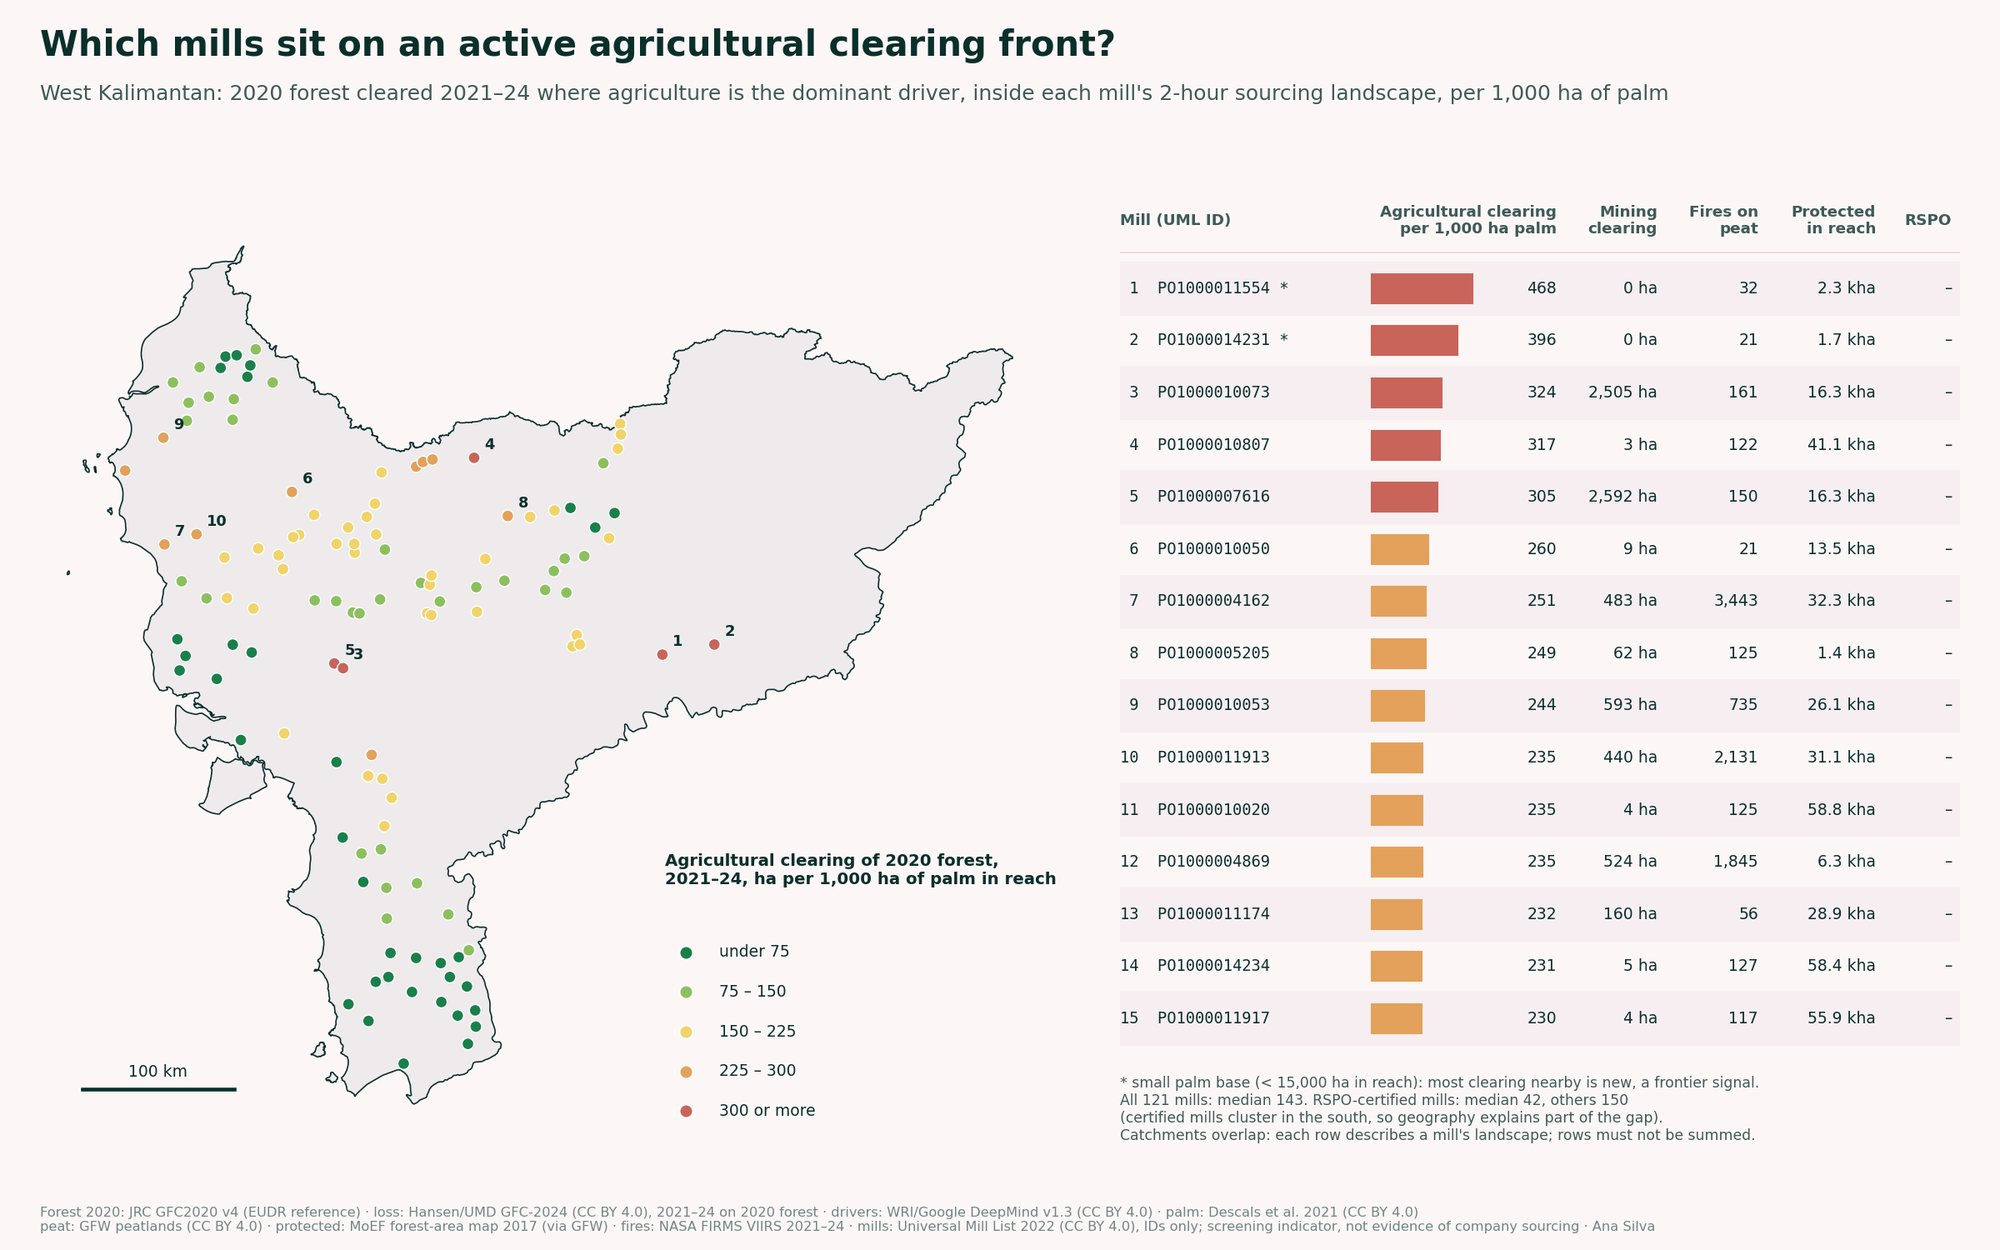
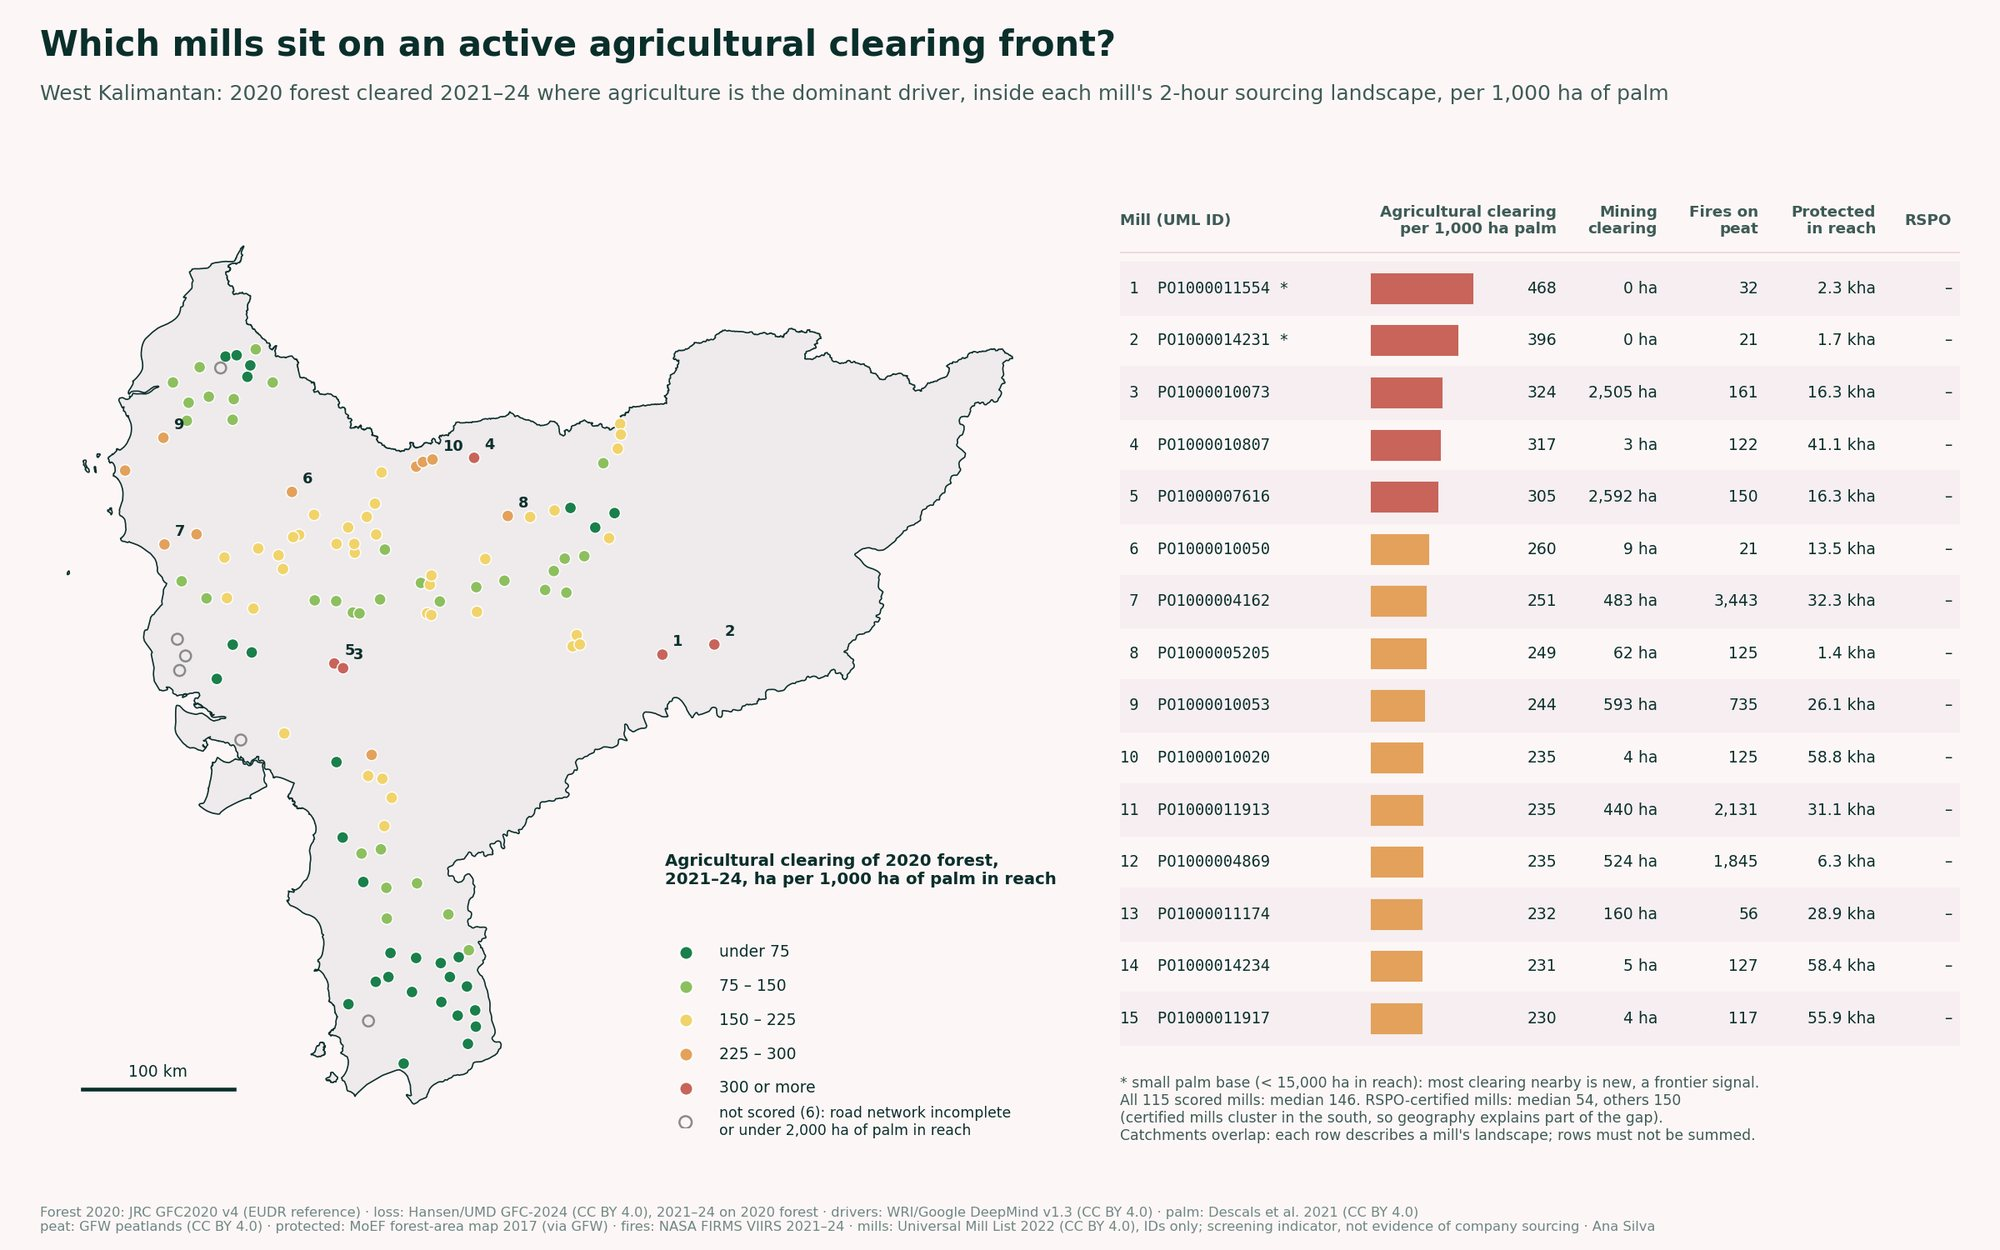
Update site

Changed region(s): [[0.341, 0.78, 0.496, 0.9048], [0.589, 0.8736, 0.837, 0.9048]]

diff --git a/palm-oil.html b/palm-oil.html
@@ -1,0 +1,181 @@
+<!doctype html>
+<html lang="en">
+<head>
+<meta charset="utf-8">
+<meta name="viewport" content="width=device-width, initial-scale=1, viewport-fit=cover">
+<title>Palm Oil Mills · Ana Silva</title>
+<meta name="description" content="Where does a palm oil mill's fruit come from, and is forest being cleared there? A screening of 361 mills in West Kalimantan and Riau, Indonesia, built on open data.">
+<meta property="og:title" content="Palm oil mills: where does the fruit come from?">
+<meta property="og:description" content="A screening of 361 mills in West Kalimantan and Riau, built on open data.">
+<meta property="og:image" content="https://kirjawa.github.io/assets/palm_spotcheck.jpg">
+<link rel="preconnect" href="https://fonts.googleapis.com">
+<link rel="preconnect" href="https://fonts.gstatic.com" crossorigin>
+<link rel="stylesheet" href="https://fonts.googleapis.com/css2?family=Instrument+Serif:ital@0;1&family=Figtree:wght@400;500;600&family=IBM+Plex+Mono:wght@400;500&display=swap">
+<style>
+:root{--blush:#F8D3DA;--rose:#DB8FAB;--rose-ink:#A94C73;--teal:#15A19A;--forest:#0B6152;--pine:#073B35;
+--ground:#FDF6F7;--surface:#FFFFFF;--wash:#FBE9ED;--ink:#0A2F2B;--ink-2:#3E5B56;--muted:#6F8783;--hair:#EFD9DF;
+--serif:"Instrument Serif",Georgia,"Times New Roman",serif;--sans:"Figtree",system-ui,-apple-system,"Segoe UI",sans-serif;
+--mono:"IBM Plex Mono",ui-monospace,Menlo,Consolas,monospace}
+@media (prefers-color-scheme:dark){:root:not([data-theme="light"]){color-scheme:dark;--ground:#062724;--surface:#0A3531;--wash:#0D3D38;
+--ink:#FBEAEE;--ink-2:#C9DEDA;--muted:#8FB0AA;--hair:#17504A;--rose-ink:#F0B3C9}}
+*{box-sizing:border-box}
+body{margin:0;background:var(--ground);color:var(--ink);font:400 17px/1.65 var(--sans);-webkit-font-smoothing:antialiased;padding-inline:clamp(16px,4vw,40px)}
+.wrap{max-width:820px;margin:0 auto;padding-block:28px 72px}
+.wide{max-width:1180px;margin:0 auto}
+a{color:var(--rose-ink);text-underline-offset:3px}
+a:focus-visible,button:focus-visible{outline:2px solid var(--teal);outline-offset:3px;border-radius:6px}
+.back{font:500 13px var(--mono);text-decoration:none}
+.eyebrow{display:block;margin-top:34px;font:500 12px/1 var(--mono);letter-spacing:.14em;text-transform:uppercase;color:var(--rose-ink)}
+h1{font:400 clamp(38px,5.5vw,64px)/1.02 var(--serif);margin:14px 0 18px;text-wrap:balance}
+h2{font:400 clamp(28px,3.4vw,38px)/1.1 var(--serif);margin:52px 0 12px;text-wrap:balance}
+h3{font:600 17px/1.3 var(--sans);margin:26px 0 6px}
+p,li{color:var(--ink-2)}
+.lede{font-size:19.5px;color:var(--ink)}
+ol,ul{padding-left:22px}
+li{margin:6px 0}
+figure{margin:28px 0}
+figure img{width:100%;height:auto;display:block;border-radius:12px;border:1px solid var(--hair);background:#FDF6F7;cursor:zoom-in}
+figcaption{font:400 13.5px/1.5 var(--sans);color:var(--muted);margin-top:8px}
+.pair{display:grid;grid-template-columns:1fr 1fr;gap:18px}
+.pair figure{margin:0}
+table{width:100%;border-collapse:collapse;font-size:15.5px;margin:18px 0}
+th,td{text-align:left;padding:9px 10px;border-bottom:1px solid var(--hair);vertical-align:top}
+th{font:500 12px var(--mono);letter-spacing:.06em;text-transform:uppercase;color:var(--muted)}
+th:not(:first-child){text-align:right}
+.src th,.src td{text-align:left}
+td.n{text-align:right;font-variant-numeric:tabular-nums;white-space:nowrap}
+.tbl{overflow-x:auto}
+.note{background:var(--wash);border-radius:12px;padding:16px 20px;margin:24px 0}
+.note p{margin:0}
+.src td:first-child{white-space:nowrap;color:var(--ink)}
+footer{border-top:1px solid var(--hair);margin-top:56px;padding-top:18px;font:400 13px var(--mono);color:var(--muted)}
+@media (max-width:760px){.pair{grid-template-columns:1fr}}
+/* lightbox */
+dialog.lb{border:0;padding:0;margin:0;width:100vw;height:100vh;max-width:none;max-height:none;background:rgba(7,39,36,.94);color:#fff}
+.lb-stage{position:absolute;inset:52px 56px 56px;overflow:auto;display:grid;place-items:center}
+.lb-stage img{max-width:100%;max-height:100%;object-fit:contain;cursor:zoom-in;border-radius:6px;background:#FDF6F7}
+.lb.full .lb-stage{place-items:start}.lb.full .lb-stage img{max-width:none;max-height:none;cursor:zoom-out}
+.lb-cap{position:absolute;left:56px;right:56px;bottom:16px;text-align:center;font-size:14px;color:#E8F1EF}
+.lb button{position:absolute;top:10px;right:14px;background:rgba(253,246,247,.1);color:#fff;border:1px solid rgba(248,211,218,.3);border-radius:99px;width:44px;height:44px;font-size:20px;cursor:pointer}
+</style>
+</head>
+<body>
+<div class="wrap">
+  <a class="back" href="./">← Ana Silva · portfolio</a>
+  <span class="eyebrow">Study · West Kalimantan and Riau, Indonesia</span>
+  <h1>Palm oil mills: where does the fruit come from?</h1>
+  <p class="lede">Under the EU Deforestation Regulation, anyone selling palm oil into Europe has to show it didn't come from land cleared after 2020. The oil is traceable to a mill, but mills buy fresh fruit from many farms around them. So I asked two questions: which land can realistically supply each mill, and is forest being cleared there?</p>
+  <p>I screened 361 mills in two very different provinces, West Kalimantan on Borneo and Riau on Sumatra, using only open data. This page explains how, what I found, and where the method stops.</p>
+</div>
+
+<div class="wide">
+  <figure><img src="assets/palm_spotcheck.jpg" alt="Sentinel-2 before and after images of two sites in West Kalimantan: forest turned into a new oil palm plantation, and forest turned into open-pit mining" data-caption="Not all clearing near palm oil mills is palm"><figcaption>Two places near mills in West Kalimantan, seen by Sentinel-2 in 2020 and 2024. Both lost forest. Only the top one became oil palm.</figcaption></figure>
+</div>
+
+<div class="wrap">
+  <h2>How I did it</h2>
+  <ol>
+    <li><b>Mills.</b> I took every mill in the Universal Mill List and selected them by location inside each province, not by the province written in the list. That caught eight mills with the wrong province label.</li>
+    <li><b>Where the palm is.</b> A 10 m map of mature oil palm from 2021, split into industrial estates and smallholder farms.</li>
+    <li><b>How far fruit can travel.</b> Fruit has to be milled within about a day of harvest, so the driving part is short. I built a road network from OpenStreetMap with typical truck speeds and measured the drive from every palm area to every mill. Estate roads are often missing from OpenStreetMap, so I allowed up to 3 km off the mapped roads.</li>
+    <li><b>Each mill's sourcing landscape.</b> All palm a truck can reach within 2 hours of the mill. Most palm can reach several mills, so these areas overlap and I never add them up.</li>
+    <li><b>Forest cleared since the cutoff.</b> Forest at the end of 2020 from the EU's own reference map (JRC), and tree cover lost in 2021 to 2024 on that forest.</li>
+    <li><b>Why the forest was cleared.</b> Loss near palm isn't always palm. I used a global map of the dominant cause of forest loss to keep only agricultural clearing in the score, and to show mining and other causes separately.</li>
+    <li><b>One number per mill.</b> Agricultural clearing of 2020 forest in the mill's landscape, per 1,000 ha of palm it can reach. Dividing by palm keeps big central mills from ranking high just because their area is large.</li>
+  </ol>
+
+  <h2>What I found</h2>
+  <div class="tbl"><table>
+    <tr><th></th><th>West Kalimantan</th><th>Riau</th></tr>
+    <tr><td>Mills screened</td><td class="n">121</td><td class="n">240</td></tr>
+    <tr><td>Mature oil palm (2021)</td><td class="n">1.42 Mha</td><td class="n">2.85 Mha</td></tr>
+    <tr><td>of which smallholder</td><td class="n">0.29 Mha</td><td class="n">1.05 Mha</td></tr>
+    <tr><td>Palm within 1 hour of a mill</td><td class="n">89%</td><td class="n">91%</td></tr>
+    <tr><td>Mills within 2 hours of the palm (median)</td><td class="n">7</td><td class="n">31</td></tr>
+    <tr><td>Palm with only one mill in reach</td><td class="n">5%</td><td class="n">2%</td></tr>
+    <tr><td>Forest at the end of 2020</td><td class="n">9.2 Mha</td><td class="n">3.1 Mha</td></tr>
+    <tr><td>Tree cover lost on that forest, 2021 to 2024</td><td class="n">362 kha</td><td class="n">131 kha</td></tr>
+    <tr><td>Clearing per 1,000 ha of palm (median mill)</td><td class="n">146 ha</td><td class="n">16 ha</td></tr>
+  </table></div>
+
+  <h3>Almost all palm is close to a mill, and usually to many</h3>
+  <p>In both provinces about nine in ten hectares of palm are within an hour of a mill. What differs is competition. In West Kalimantan a typical plot can reach 7 mills within 2 hours. In Riau it's 31. That matters for traceability: when fruit can go to that many mills, knowing a mill's location tells you very little about which farms supplied it. Only plot-level data from the mill can close that gap.</p>
+</div>
+<div class="wide pair">
+  <figure><img src="assets/palm_competition.jpg" alt="Map of West Kalimantan palm coloured by the number of mills within 2 hours" data-caption="How many mills compete for the same fruit? West Kalimantan"><figcaption>West Kalimantan: median 7 mills within 2 hours of the palm.</figcaption></figure>
+  <figure><img src="assets/palm_competition_riau.jpg" alt="Map of Riau palm coloured by the number of mills within 2 hours, almost all 11 or more" data-caption="How many mills compete for the same fruit? Riau"><figcaption>Riau: median 31, and 86% of palm has 11 or more mills in reach.</figcaption></figure>
+</div>
+
+<div class="wrap">
+  <h3>The clearing front is in West Kalimantan</h3>
+  <p>Using the same colour scale for both provinces, West Kalimantan has a clear agricultural clearing front through its west-central belt and along its eastern frontier. Riau is almost all green. Its remaining forest is small and mostly on peat or in protected areas, which fits a frontier that was largely cleared before 2020.</p>
+  <p>In West Kalimantan, mills with RSPO certification have lower scores (median 54 against 150 for the others), but certified mills also cluster in the south, where clearing is low anyway. In Riau there is no difference.</p>
+</div>
+<div class="wide pair">
+  <figure><img src="assets/palm_mill_risk.jpg" alt="West Kalimantan mills coloured by agricultural clearing in their sourcing landscape, with a ranked table" data-caption="Which mills sit on an active agricultural clearing front? West Kalimantan"><figcaption>West Kalimantan, mills shown by their public ID.</figcaption></figure>
+  <figure><img src="assets/palm_mill_risk_riau.jpg" alt="Riau mills coloured by agricultural clearing in their sourcing landscape, almost all low" data-caption="Which mills sit on an active agricultural clearing front? Riau"><figcaption>Riau, same scale.</figcaption></figure>
+</div>
+
+<div class="wrap">
+  <h2>How I checked it</h2>
+  <ul>
+    <li><b>With my own eyes.</b> I looked at Sentinel-2 images before and after for four of the places with the most clearing. All four were real clearing, but only one was a new palm plantation. One was mining, which is why I added the cause of loss.</li>
+    <li><b>The cause map, against those images.</b> The global drivers map called the plantation agriculture and the pits mining, matching what the images show.</li>
+    <li><b>The off-road allowance.</b> Ranking the West Kalimantan mills with 1 km instead of 3 km off the mapped roads gives almost the same order (rank correlation 0.99).</li>
+    <li><b>Totals against known figures.</b> The palm area for Riau (2.85 Mha) and the protected forest in West Kalimantan (3.7 Mha) are close to official numbers.</li>
+  </ul>
+</div>
+<div class="wide">
+  <figure style="max-width:760px;margin-inline:auto"><img src="assets/palm_spotcheck4.jpg" alt="Sentinel-2 before and after for four sites near West Kalimantan mills, with mapped loss" data-caption="Spot-check of the four sites with the most clearing"><figcaption>The full spot-check: four sites, 2020 against 2024, with the mapped loss by year.</figcaption></figure>
+</div>
+
+<div class="wrap">
+  <h2>What this can't tell you</h2>
+  <div class="note"><p>This is a screening of the landscape around each mill. It shows where a buyer should look first. It is not evidence of what any mill or company actually sourced, which is why mills appear only by their public ID.</p></div>
+  <ul>
+    <li>The palm map is from 2021 and counts mature palm only, so newer and young plantings are missing. The mill list is from 2022.</li>
+    <li>The cause of forest loss comes from a 1 km map that gives the main cause over 2001 to 2025, not for each pixel or year. "Agriculture" there also includes crops other than palm.</li>
+    <li>Truck speeds come from road types, since speed limits are tagged on less than 1% of roads. Real trips depend on road condition and season.</li>
+    <li>Mills whose roads don't connect to the wider network, or with under 2,000 ha of palm in reach, are shown but not scored (6 in West Kalimantan, 8 in Riau).</li>
+    <li>Plantation concession maps and the global protected-areas database were left out on purpose: their licences don't allow this kind of use. I used Indonesia's own forest-area map for protected land instead.</li>
+  </ul>
+
+  <h2>Data</h2>
+  <div class="tbl"><table class="src">
+    <tr><td>Mills</td><td>Universal Mill List, 2022 release (WRI, Rainforest Alliance and partners via Global Forest Watch), CC BY 4.0</td></tr>
+    <tr><td>Oil palm</td><td>Descals et al., global oil palm extent 2021, 10 m, CC BY 4.0</td></tr>
+    <tr><td>Roads</td><td>OpenStreetMap contributors, ODbL</td></tr>
+    <tr><td>Forest 2020</td><td>JRC Global Forest Cover 2020 v4, the EUDR reference map, © European Union</td></tr>
+    <tr><td>Tree cover loss</td><td>Hansen/UMD Global Forest Change 2024 v1.12, CC BY 4.0</td></tr>
+    <tr><td>Cause of loss</td><td>WRI and Google DeepMind, drivers of forest loss at 1 km v1.3, CC BY 4.0</td></tr>
+    <tr><td>Peat</td><td>Global Forest Watch peatlands (Miettinen et al. for Indonesia), CC BY 4.0</td></tr>
+    <tr><td>Protected land</td><td>Indonesia Ministry of Environment and Forestry forest-area map, 2017, via Global Forest Watch</td></tr>
+    <tr><td>Fires</td><td>NASA FIRMS, VIIRS active fires 2021 to 2024</td></tr>
+    <tr><td>Imagery</td><td>Copernicus Sentinel-2 L2A via Earth Search</td></tr>
+    <tr><td>Boundaries</td><td>geoBoundaries, ODbL</td></tr>
+  </table></div>
+  <p>The code runs end to end from these sources. If you'd like to see it, or you want a screening like this for your own mills or supplier plots, <a href="./#contact">get in touch</a>.</p>
+
+  <footer>Ana Silva · GIS &amp; remote sensing · September 2026</footer>
+</div>
+
+<dialog class="lb" id="lb" aria-label="Figure viewer">
+  <button type="button" aria-label="Close">✕</button>
+  <div class="lb-stage"><img alt=""></div>
+  <div class="lb-cap"></div>
+</dialog>
+<script>
+(function(){
+  var d=document.getElementById('lb'); if(!d||!d.showModal) return;
+  var im=d.querySelector('img'), cap=d.querySelector('.lb-cap'), st=d.querySelector('.lb-stage');
+  document.querySelectorAll('figure img').forEach(function(f){
+    f.addEventListener('click',function(){ d.classList.remove('full'); im.src=f.src; im.alt=f.alt;
+      cap.textContent=f.dataset.caption||f.alt; d.showModal(); st.scrollTo(0,0); });
+  });
+  im.addEventListener('click',function(){ d.classList.toggle('full'); });
+  d.querySelector('button').addEventListener('click',function(){ d.close(); });
+  d.addEventListener('click',function(e){ if(e.target===d||e.target===st) d.close(); });
+})();
+</script>
+</body>
+</html>

diff --git a/index.html b/index.html
@@ -14,7 +14,7 @@
 <meta name="twitter:card" content="summary_large_image">
 <meta name="twitter:image" content="https://kirjawa.github.io/assets/og_card.jpg">
 <title>Ana Silva</title>
-<meta name="description" content="Ana Silva — GIS and remote sensing for environment and agriculture.">
+<meta name="description" content="Ana Silva, GIS and remote sensing for environment and agriculture.">
 <link rel="preconnect" href="https://fonts.googleapis.com">
 <link rel="preconnect" href="https://fonts.gstatic.com" crossorigin>
 <link rel="stylesheet" href="https://fonts.googleapis.com/css2?family=Instrument+Serif:ital@0;1&family=Figtree:wght@400;500;600&family=IBM+Plex+Mono:wght@400;500&display=swap">
@@ -286,10 +286,11 @@ dialog.lb::backdrop{background:rgba(7,39,36,.6)}
         <article class="tile t-lead">
           <figure class="fig"><a class="zoom" href="assets/palm_spotcheck.jpg" target="_blank" rel="noopener" aria-label="Open full-size figure: Not all clearing near palm oil mills is palm"><img src="assets/palm_spotcheck.jpg" alt="Sentinel-2 before and after images of two sites in West Kalimantan: forest turned into a new oil palm plantation, and forest turned into open-pit mining" loading="lazy"></a></figure>
           <div class="body">
-            <span class="status wip">West Kalimantan done · Riau next</span>
+            <span class="status">Complete · West Kalimantan and Riau</span>
             <h3>Palm oil mills: where does the fruit come from?</h3>
-            <p>121 mills, the oil palm around them, and the road network trucks actually drive. Each mill's sourcing landscape is screened for forest cleared since the EUDR cutoff, split by driver, so mining and other clearing stay out of the palm score. Checked on Sentinel-2, before and after.</p>
+            <p>361 mills in two provinces, the oil palm around them, and the roads fruit trucks actually drive. Each mill's sourcing landscape is screened for forest cleared since the EUDR cutoff, split by cause, so mining and other clearing stay out of the palm score. Checked on Sentinel-2, before and after.</p>
             <div class="tags"><span class="tag">OpenStreetMap routing</span><span class="tag">JRC forest 2020</span><span class="tag">Hansen loss</span><span class="tag">WRI drivers</span><span class="tag">Sentinel-2</span></div>
+            <a class="more" href="palm-oil.html">Read how I did it →</a>
             <a class="more zoom" href="assets/palm_access.jpg" data-caption="How far is the palm from the nearest mill?" target="_blank" rel="noopener">Travel time from palm to mill →</a>
             <a class="more zoom" href="assets/palm_competition.jpg" data-caption="How many mills compete for the same fruit?" target="_blank" rel="noopener">Mills competing for the same fruit →</a>
           </div>
